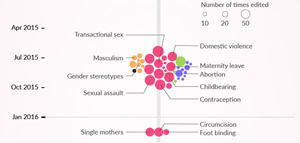
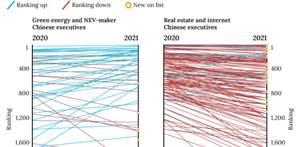
add legend

diff --git a/src/data/data.js b/src/data/data.js
@@ -1,80 +1,90 @@
 export default [
     {
         "no": "1",
-        "name": "How I Matched Your Mother in the Market",
-        "date": "Aug 2018",
-        "process": "Interview - Research - Data Collection and Analysis - UX Design - Project Management - Writing",
-        "url": "https://h5.thepaper.cn/html/zt/2018/08/seekinglove/index.html"
+        "name": "How Chinese citizens take advantage of the FOIA",
+        "date": "April 2019",
+        "process": "Pitch - Research - Interview - Data Clean and Analysis - Writing",
+        "url": "https://www.thepaper.cn/newsDetail_forward_3248133",
+        "language":"chn"
     },
     {
         "no": "2",
-        "name": "How Personal Income Tax Reform Affects You",
-        "date": "Jan 2019",
-        "process": "Pitch - Research - Interview - Data Analysis - UX/UI Design - Front-End Development - Writing",
-        "url": "https://h5.thepaper.cn/html/zt/2019/01/tax/index.html"
+        "name": "How the coronavirus spread in China, explained",
+        "date": "Feb 2020",
+        "process": "Pitch - Research - Data Collection, Clean and Analysis - Writing",
+        "url": "https://www.sixthtone.com/news/1005173/four-charts-that-help-explain-how-the-coronavirus-spread",
+        "language":"eng"
     },
     {
         "no": "3",
-        "name": "Why China's FOIA Failed Its Goal",
-        "date": "April 2019",
-        "process": "Pitch - Research - Interview - Data Clean and Analysis - Writing",
-        "url": "https://www.thepaper.cn/newsDetail_forward_3248133"
+        "name": "China’s female civil service applicants ask: where are our seats at the table?",
+        "date": "Nov 2020",
+        "process": "Pitch - Research - Interviewing - Data Clean and Analysis - Data Visualization - Writing",
+        "url": "https://www.sixthtone.com/news/1006477/chinas-female-civil-service-applicants-ask-where-are-our-seats-at-the-table%3F",
+        "language":"eng"
     },
     {
         "no": "4",
-        "name": "Internet, What is Love?",
-        "date": "Aug 2019",
-        "process": "Pitch - Research - Web Scraping - Data Clean and Analysis - UX Design - Writing",
-        "url": "https://h5.thepaper.cn/html/zt/2019/08/love/index.html"
+        "name": "How I Matched Your Mother in the Market",
+        "date": "Aug 2018",
+        "process": "Interview - Research - Data Collection and Analysis - UX Design - Project Management - Writing",
+        "url": "https://h5.thepaper.cn/html/zt/2018/08/seekinglove/index.html",
+        "language":"chn"
     },
     {
         "no": "5",
-        "name": "How the Coronavirus Spread in China, Explained",
-        "date": "Feb 2020",
-        "process": "Pitch - Research - Data Collection, Clean and Analysis - Writing",
-        "url": "https://www.thepaper.cn/newsDetail_forward_5719018"
+        "name": "What we need to know about the personal income tax reform",
+        "date": "Jan 2019",
+        "process": "Pitch - Research - Interview - Data Analysis - UX/UI Design - Front-End Development - Writing",
+        "url": "https://h5.thepaper.cn/html/zt/2019/01/tax/index.html",
+        "language":"chn"
     },
     {
         "no": "6",
-        "name": "China’s Female Civil Service Applicants Ask: Where Are Our Seats at the Table?",
-        "date": "Nov 2020",
-        "process": "Pitch - Research - Interviewing - Data Clean and Analysis - Data Visualization - Writing",
-        "url": "https://www.thepaper.cn/newsDetail_forward_10021801"
-    },
-    {
-        "no": "7",
-        "name": "China’s 3,500-Post Edit War Over Feminism",
-        "date": "March 2021",
-        "process": "Pitch - Research - Web Scraping - Data Clean and Analysis - Writing",
-        "url": "https://www.thepaper.cn/newsDetail_forward_11607122"
-    },
-    {
-        "no": "8",
         "name": "Chinese Apps are Removing Search Function for Teenagers",
         "date": "Aug 2021",
         "process": "Pitch - Research - Web Scraping - Data Clean and Analysis - Writing",
-        "url": "https://www.thepaper.cn/newsDetail_forward_13798568"
+        "url": "https://www.thepaper.cn/newsDetail_forward_13798568",
+        "language":"chn"
     },
     {
-        "no": "9",
+        "no": "7",
         "name": "New-Energy Billionaires Race Up China’s Rich List",
         "date": "Oct 2021",
         "process": "Pitch - Data Clean and Analysis - Data Visualization - Writing",
-        "url": "https://www.caixinglobal.com/2021-10-28/new-energy-billionaires-race-up-chinas-rich-list-101793059.html"
+        "url": "https://www.caixinglobal.com/2021-10-28/new-energy-billionaires-race-up-chinas-rich-list-101793059.html",
+        "language":"eng"
     },
     {
-        "no": "10",
+        "no": "8",
+        "name": "China’s 3,500-Post Edit War Over Feminism",
+        "date": "March 2021",
+        "process": "Pitch - Research - Web Scraping - Data Clean and Analysis - Writing",
+        "url": "https://www.sixthtone.com/news/1007168/chinas-3%2C500-post-edit-war-over-feminism",
+        "language":"eng"
+    },
+    {
+        "no": "9",
         "name": "China's Coal Miners Pile Up Record $111 Billion in Profit",
         "date": "Feb 2022",
         "process": "Pitch - Data Clean and Analysis - Data Visualization - Writing",
-        "url": "https://www.caixinglobal.com/2022-02-23/chart-of-the-day-chinas-coal-miners-pile-up-record-111-billion-in-profit-101845944.html"
+        "url": "https://www.caixinglobal.com/2022-02-23/chart-of-the-day-chinas-coal-miners-pile-up-record-111-billion-in-profit-101845944.html",
+        "language":"eng"
     },
     {
-        "no": "11",
+        "no": "10",
         "name": "Movie Ticket Sales Suffer Second-Worst Qingming Holiday Performance in a Decade",
         "date": "April 2022",
         "process": "Pitch - Data Clean and Analysis - Data Visualization - Front-end Development - Writing",
-        "url": "https://www.caixinglobal.com/2022-04-06/movie-ticket-sales-suffer-second-worst-qingming-holiday-performance-in-a-decade-101866455.html"
+        "url": "https://www.caixinglobal.com/2022-04-06/movie-ticket-sales-suffer-second-worst-qingming-holiday-performance-in-a-decade-101866455.html",
+        "language":"eng"
     },
-
+    {
+        "no": "11",
+        "name": "Internet, What is Love?",
+        "date": "Aug 2019",
+        "process": "Pitch - Research - Web Scraping - Data Clean and Analysis - UX Design - Writing",
+        "url": "https://h5.thepaper.cn/html/zt/2019/08/love/index.html",
+        "language":"chn"
+    }
 ];

diff --git a/src/components/Quote.svelte b/src/components/Quote.svelte
@@ -6,9 +6,15 @@
     const data = getContext("data");
 </script>
 
-
+<div class="container legend-box">
+    <div class="row">
+        <span class="col-6 col-sm-2"><img src="/assets/icons/english.png" width="15px">English</span>
+        
+        <span class="col-6 col-sm-2 legend02"><img src="/assets/icons/chinese.png" width="15px" style="margin-left: 15px">Chinese</span>
+    </div>
+</div>
 <div class="container featureBody">
-	{#each data as { no, name, date, process, url }, i}
+	{#each data as { no, name, date, process, url,language }, i}
 		<div class="row featureRow">
 			<div class="col-md-">
 				<a href={url} target="_blank">
@@ -18,6 +24,11 @@
 			<div class="col feature-wrap">
 				<span style="margin-bottom: 20px">
 					<a class="feature-title" href={url} target="_blank">{name}</a>
+                    {#if language == "eng"}
+                        <img src="/assets/icons/english.png" alt="english-icon" width="15px">
+                    {:else}
+                        <img src="/assets/icons/chinese.png" alt="chinese-icon" width="15px">
+                    {/if}
 				<br/>
 					<span class="feature-text">{date}</span>
 				<br/>
@@ -35,14 +46,6 @@
     body content
 */
 
-.featureBody {
-    margin-top: 30px;
-    margin-bottom: 100px;
-	margin-left: -20px;
-	padding-left: 0px;
-    font-size: 15px;
-    line-height: 22px;
-  }
 
 /* 
     feature rows 
@@ -85,6 +88,10 @@
 
 
 @media screen and (min-width: 270px) {
+    .legend02 {
+        padding-left: 0px;
+    }
+
     .feature-wrap {
         padding-left: 0px;
 		margin-left: 0px;
@@ -102,8 +109,8 @@
 
     .featureRow{
         width: 100%;
-        margin-left: 20px;
-        margin-top: 40px;
+        margin-left: 0px;
+        margin-top: 10px;
     }
 
 }
@@ -111,6 +118,16 @@
 
 
 @media screen and (min-width: 481px) {
+    .legend-box {
+        margin-top: 40px;
+        margin-left: -65px;
+    }
+
+    .featureRow {
+        margin-left: 20px;
+    }
+
+
 	.col{
 		flex-basis: auto;
 	}
@@ -137,6 +154,15 @@
 
 
 @media screen and (min-width: 769px) {
+    .legend-box {
+        margin-top: 40px;
+        margin-left: -65px;
+    }
+
+    .featureRow {
+        margin-left: 20px;
+    }
+
     .feature-wrap {
         padding-left: 0px;
 		margin-left: 0px;
@@ -155,11 +181,24 @@
 }
 
 @media screen and ( min-width: 1025px ){
-	.col{
-		flex-basis: 0;
-	}
 
-	 .feature-wrap {
+    .legend-box {
+        margin-top: 40px;
+        margin-left: 0px;
+    }
+
+
+    .featureBody {
+        margin-top: -60px;
+        margin-bottom: 100px;
+        margin-left: -20px;
+        padding-left: 0px;
+        font-size: 15px;
+        line-height: 22px;
+    }
+
+
+	.feature-wrap {
 		 margin-left: 20px;
     }
 
@@ -177,6 +216,9 @@
         margin-left: -8px;
     }
 
+    .col{
+		flex-basis: 0;
+	}
 
 }
 

diff --git a/src/components/Header.svelte b/src/components/Header.svelte
@@ -2,7 +2,7 @@
 
 </script>
 
-<div class="container">
+<div class="container header-container">
     <header class="blog-header py-3">
         <div class="row flex-nowrap justify-content-between align-items-center">
             <div class="row headerRow">
@@ -113,6 +113,10 @@
 
 
     @media screen and (min-width: 767px) {
+        .header-container {
+            margin-left: 10px;
+        }
+
         .blog-header {
             /* width: 100%; */
             line-height: 1;
@@ -168,9 +172,4 @@
         
     }
 
-
-
-
 </style>
-
-

diff --git a/src/components/App.svelte b/src/components/App.svelte
@@ -57,6 +57,7 @@
     @media screen and (min-width: 270px) {
        #works {
            margin-left: 0px;
+           padding-left: 0px;
        }
     }
 
@@ -69,6 +70,7 @@
         #works {
             width: 100%;
             margin-left: 65px;
+            padding-left: 0px;
         }
 
     }
@@ -80,7 +82,8 @@
 
         #works {
             width: 100%;
-            margin-left: 75px;
+            margin-left: 65px;
+            padding-left: 10px;
         }
 
     }
